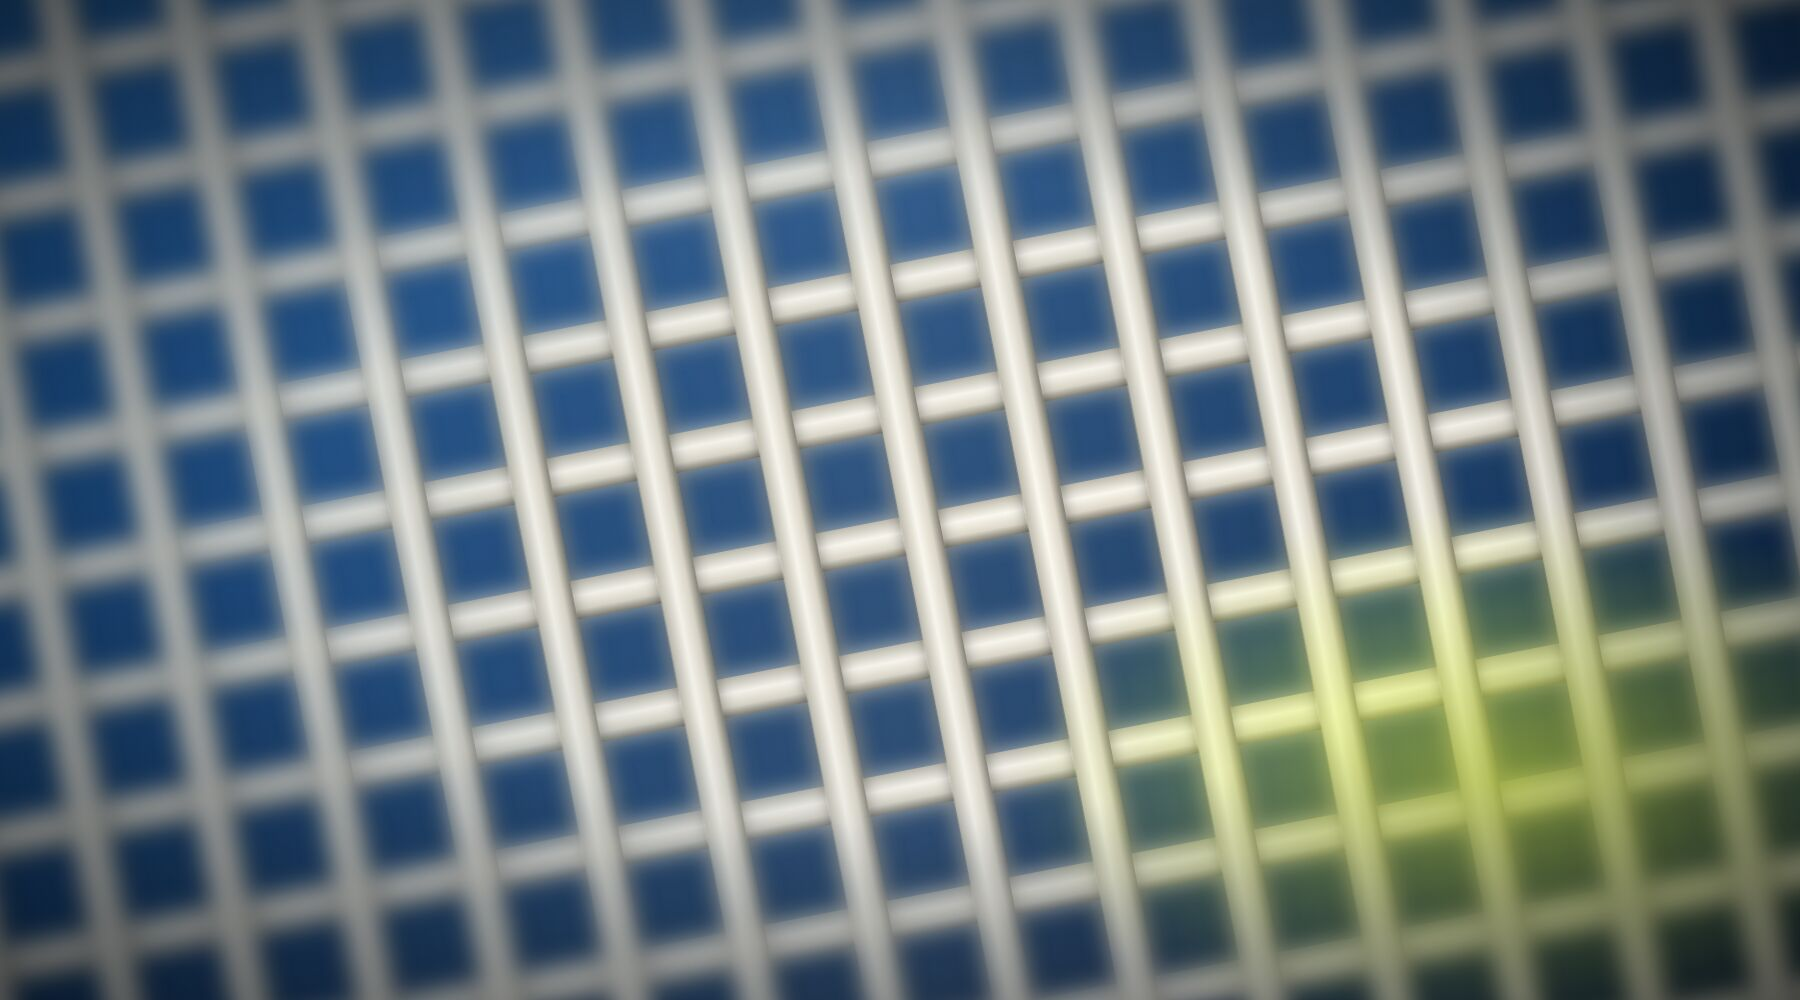
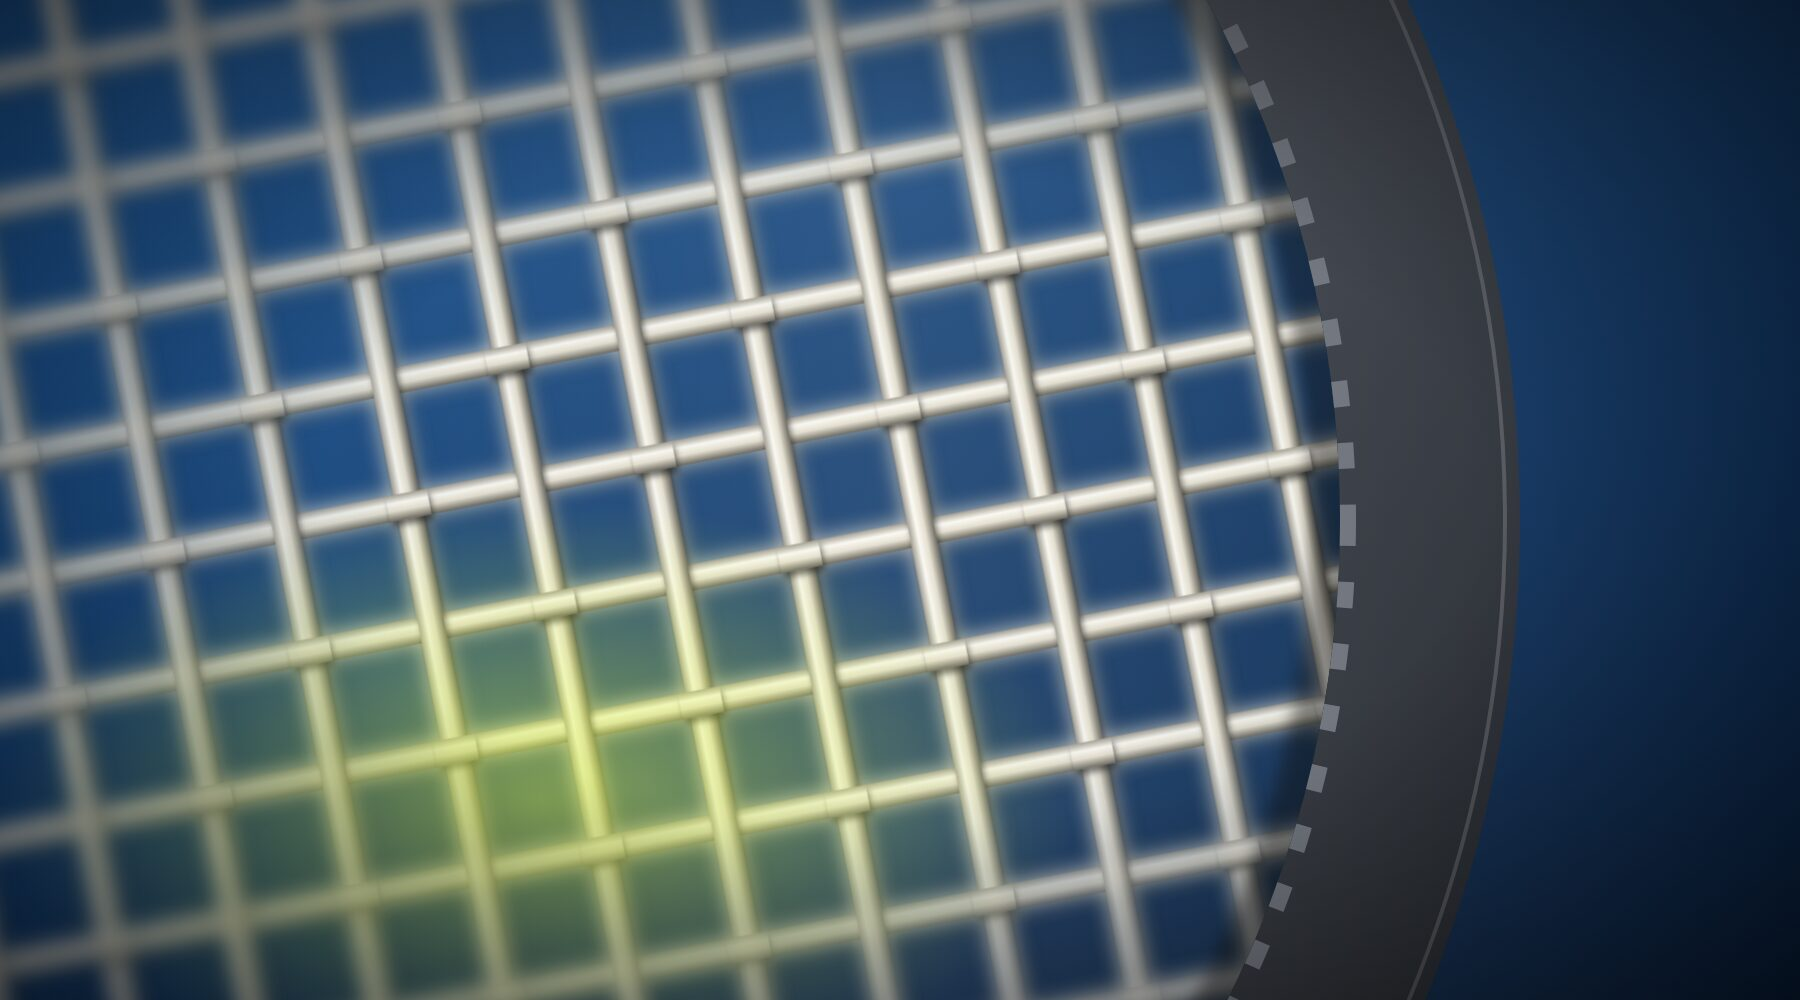
Hero artwork: woven string bed with a frame hoop
Redraw the placeholder hero image so the strings weave like a real
racquet: a checkerboard of mains over crosses and crosses over mains,
each string casting a small shadow on the one beneath, thinner strings
for the pitch, shallow focus, and a section of the frame hoop with its
grommet strip at the right. The overlay is eased a little so the weave
shows through. Still a placeholder for a real photo of the bench.

Claude-Session: https://claude.ai/code/session_018t457M8iN4XHpgBeayUgMR

diff --git a/index.html b/index.html
@@ -91,7 +91,7 @@
   /* masthead: header + hero over the photo, with the court blue as an overlay */
   .masthead{position:relative;isolation:isolate;background:var(--court-deep) url(img/hero.jpg) center/cover no-repeat}
   .masthead::before{content:"";position:absolute;inset:0;z-index:-1;
-    background:linear-gradient(105deg,rgba(42,109,184,.96) 0%,rgba(42,109,184,.88) 45%,rgba(29,82,143,.84) 100%)}
+    background:linear-gradient(105deg,rgba(42,109,184,.93) 0%,rgba(42,109,184,.84) 45%,rgba(29,82,143,.78) 100%)}
   .bar{padding:30px 0 18px;display:flex;align-items:center;justify-content:space-between;gap:12px;border-bottom:1px solid rgba(255,255,255,.35)}
   .brand{display:flex;align-items:center;gap:10px;text-decoration:none;color:#fff}
   .brand svg{width:34px;height:34px;flex:none}
